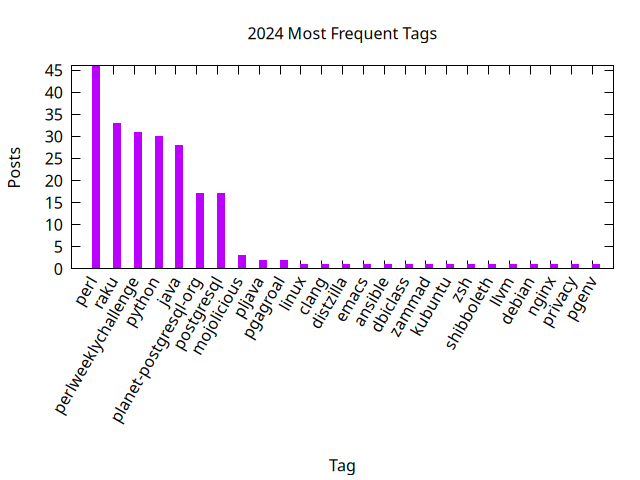
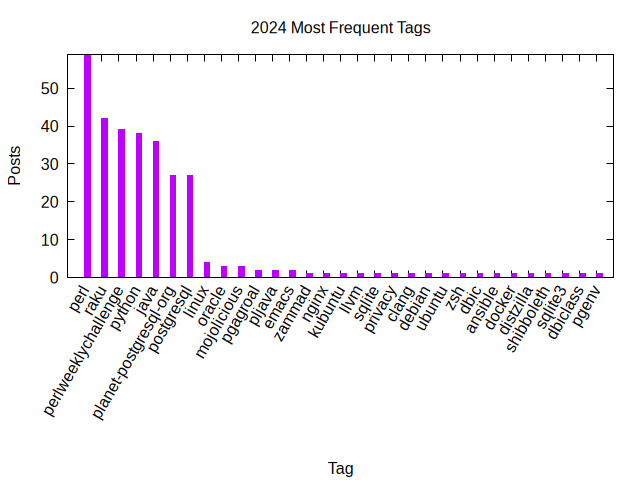
Stats update

diff --git a/_includes/stats/2024.md b/_includes/stats/2024.md
@@ -1,34 +1,40 @@
 <a name="2024" />
 ## 2024 (work in progress)
 
-**69 total posts** have been written on 2024.
-There have been *25 different tags* used, the most
+**97 total posts** have been written on 2024.
+There have been *31 different tags* used, the most
 popular being (sorted by number of posts):
  
-- *perl* (46 posts)  
-- *raku* (33 posts)  
-- *perlweeklychallenge* (31 posts)  
-- *python* (30 posts)  
-- *java* (28 posts)  
-- *planet-postgresql-org* (17 posts)  
-- *postgresql* (17 posts)  
+- *perl* (59 posts)  
+- *raku* (42 posts)  
+- *perlweeklychallenge* (39 posts)  
+- *python* (38 posts)  
+- *java* (36 posts)  
+- *planet-postgresql-org* (27 posts)  
+- *postgresql* (27 posts)  
+- *linux* (4 posts)  
+- *oracle* (3 posts)  
 - *mojolicious* (3 posts)  
-- *pljava* (2 posts)  
 - *pgagroal* (2 posts)  
-- *linux* (1 posts)  
-- *clang* (1 posts)  
-- *distzilla* (1 posts)  
-- *emacs* (1 posts)  
-- *ansible* (1 posts)  
-- *dbiclass* (1 posts)  
+- *pljava* (2 posts)  
+- *emacs* (2 posts)  
 - *zammad* (1 posts)  
-- *kubuntu* (1 posts)  
-- *zsh* (1 posts)  
-- *shibboleth* (1 posts)  
-- *llvm* (1 posts)  
-- *debian* (1 posts)  
 - *nginx* (1 posts)  
+- *kubuntu* (1 posts)  
+- *llvm* (1 posts)  
+- *sqlite* (1 posts)  
 - *privacy* (1 posts)  
+- *clang* (1 posts)  
+- *debian* (1 posts)  
+- *ubuntu* (1 posts)  
+- *zsh* (1 posts)  
+- *dbic* (1 posts)  
+- *ansible* (1 posts)  
+- *docker* (1 posts)  
+- *distzilla* (1 posts)  
+- *shibboleth* (1 posts)  
+- *sqlite3* (1 posts)  
+- *dbiclass* (1 posts)  
 - *pgenv* (1 posts).<br/>
 <br/>
 The following is the overall 2024 post ratio by month:
@@ -48,7 +54,7 @@ The following is the overall 2024 post ratio by tag (showing max 30 tags):
 
 <div align="right">
 <small>
-Last generated on 2024-07-15 at 14:31
+Last generated on 2024-11-25 at 17:47
 </small>
 </div>
 
